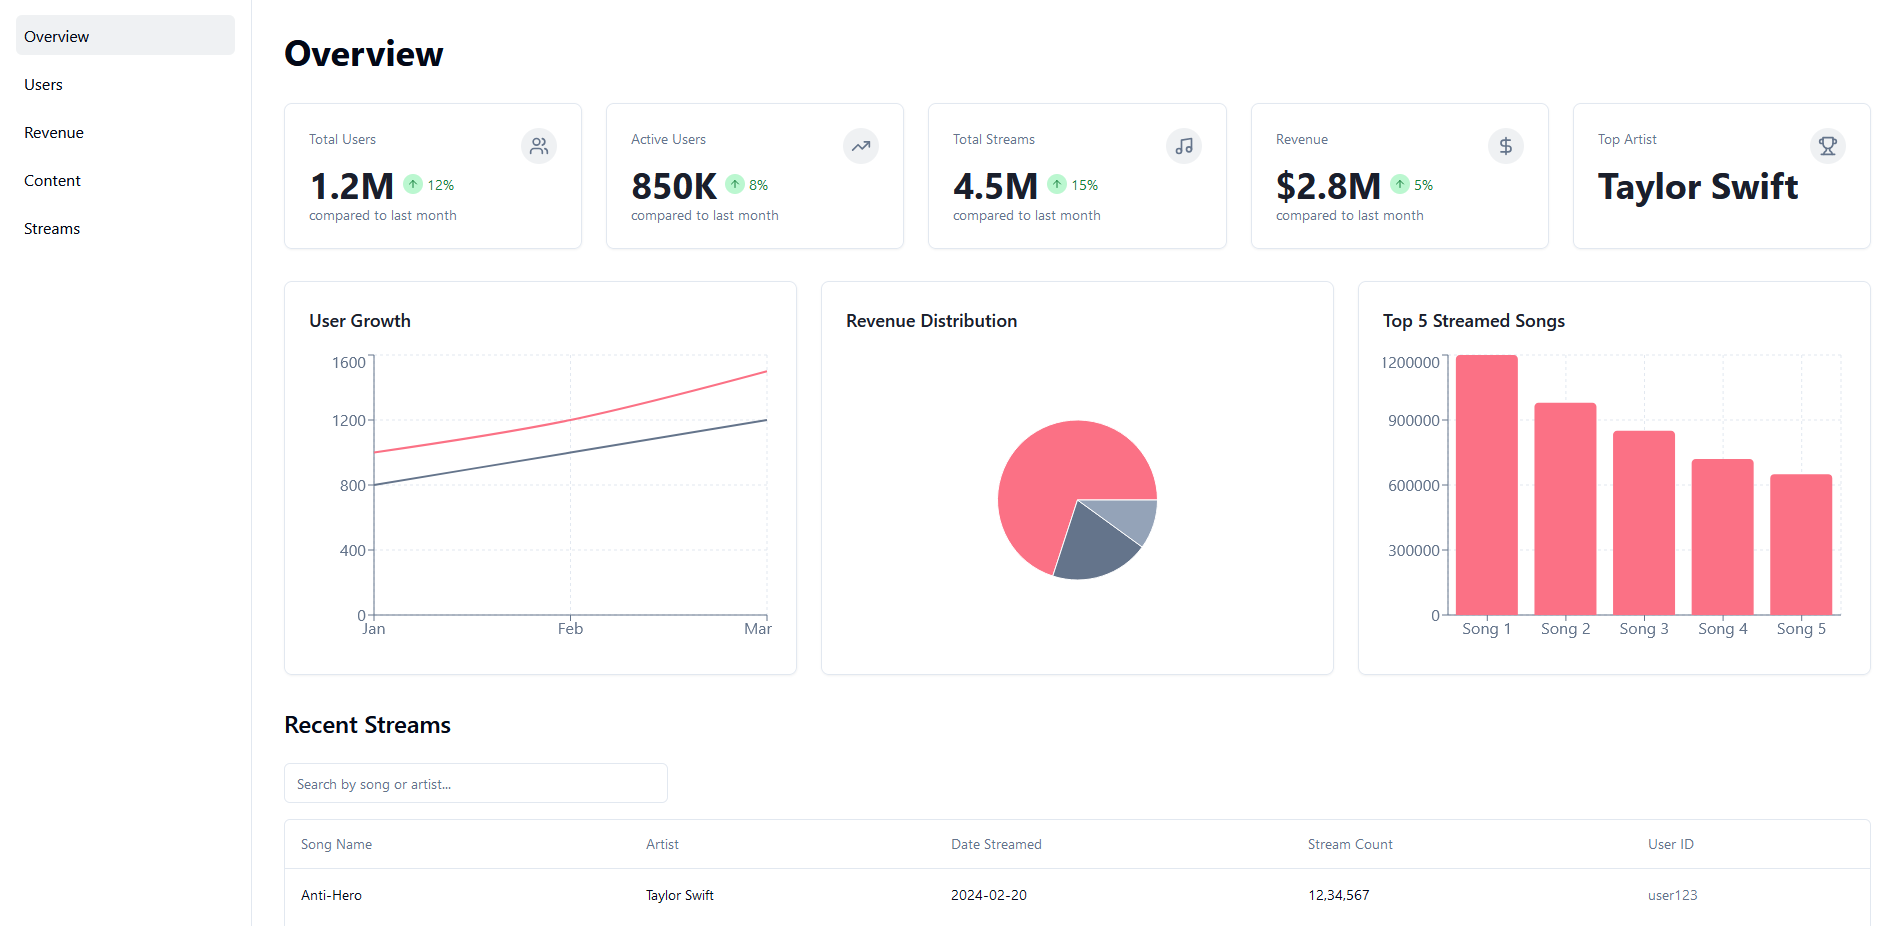
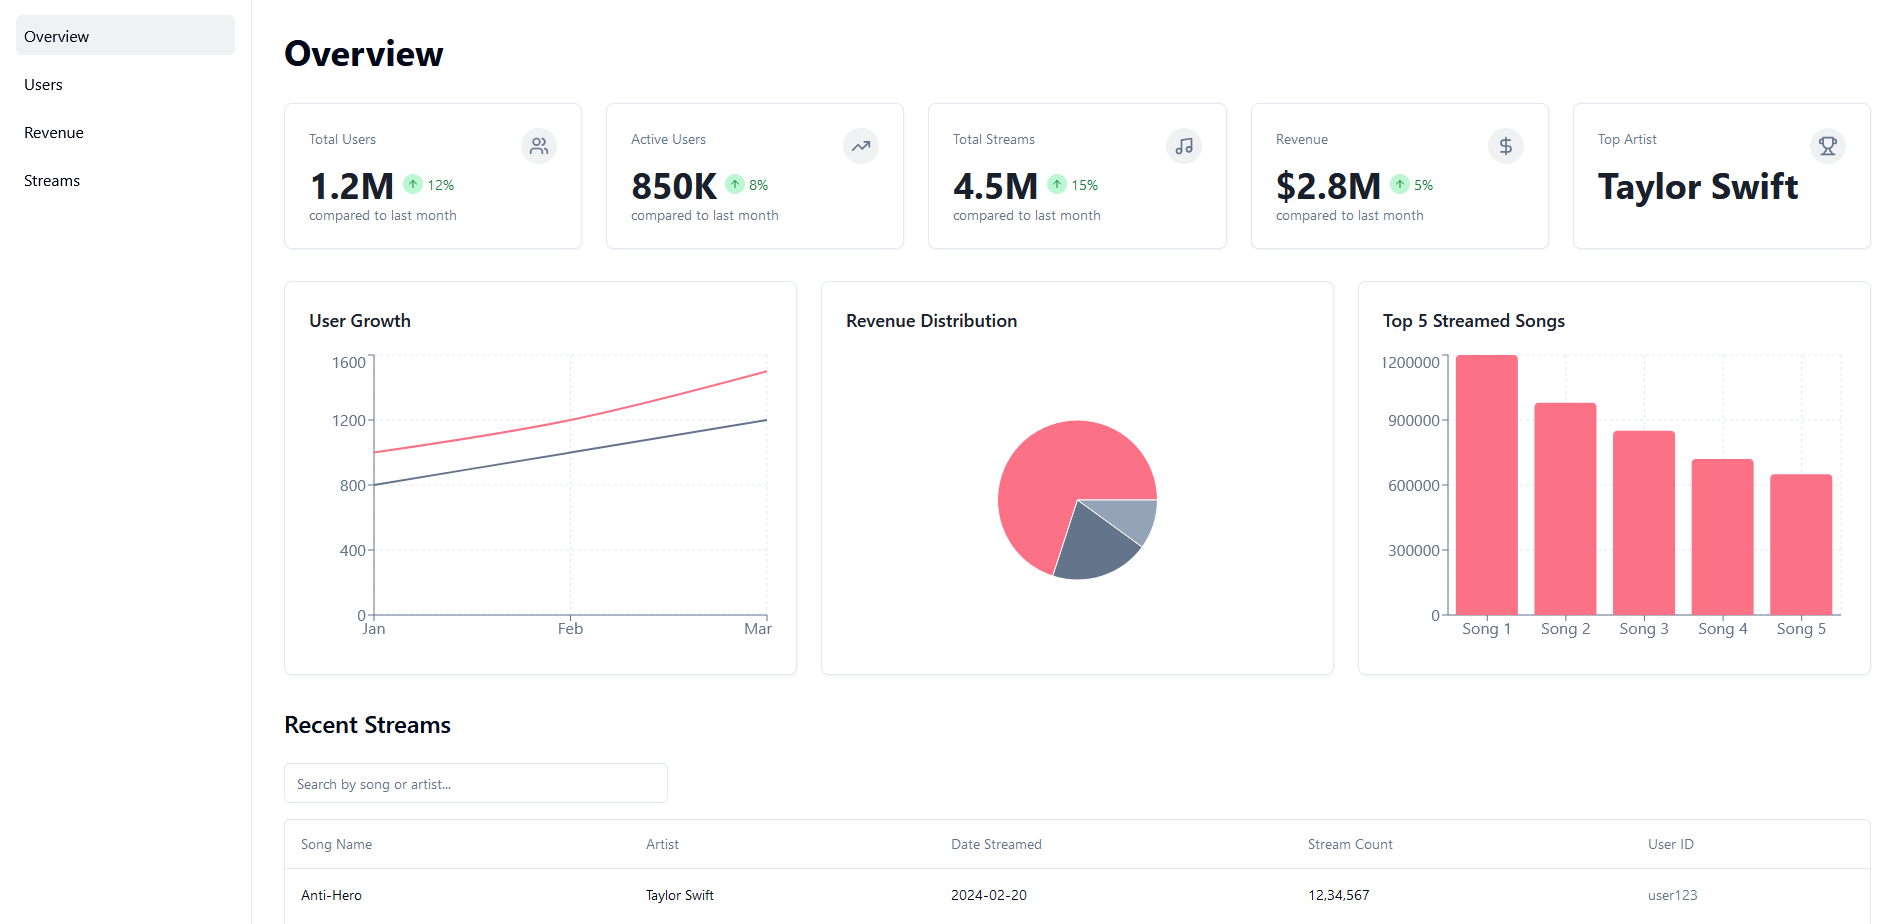
removed a tab:content and changed the thumnail

diff --git a/src/pages/Dashboard.tsx b/src/pages/Dashboard.tsx
@@ -4,7 +4,6 @@ import NotFound from "./NotFound";
 import Users from "@/tabs/Users/Users";
 import TabLink from "@/components/dashboard/TabLink";
 import Revenue from "@/tabs/Revenue/Revenue";
-import Content from "@/tabs/Content/Content";
 import Streams from "@/tabs/Streams/Streams";
 
 const Dashboard = () => {
